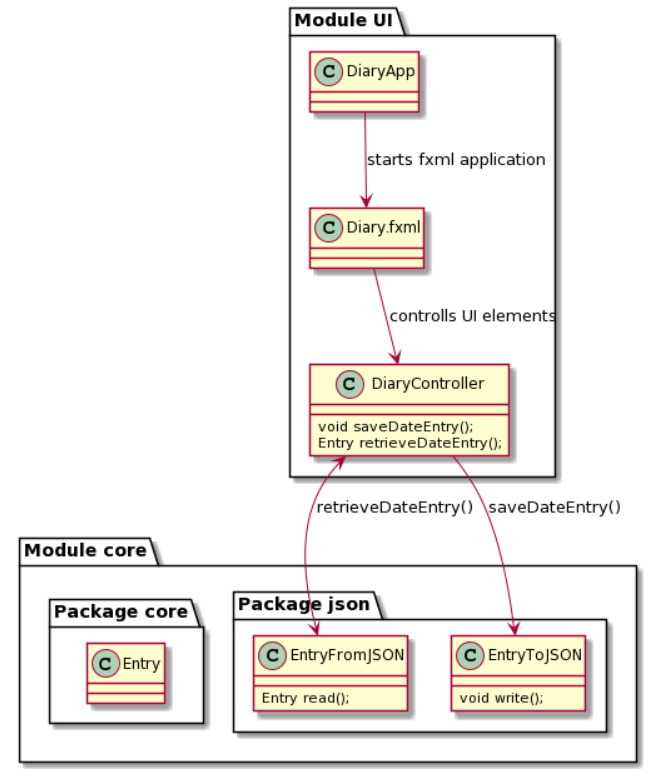
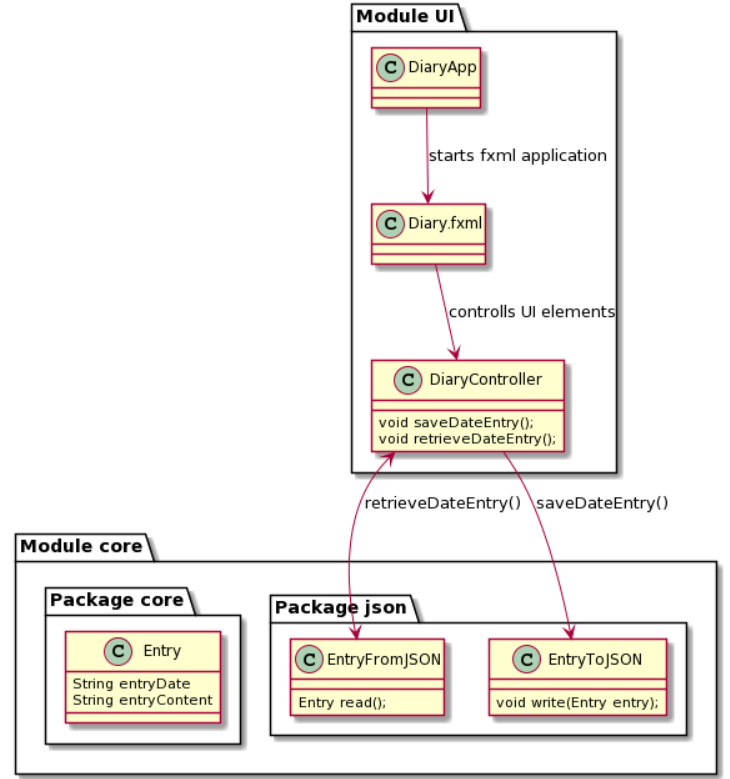
Fixed Architecture.png and added Work Habits

Changed region(s): [[0.0, 0.0, 1.0, 1.0]]

diff --git a/docs/release2/README.md b/docs/release2/README.md
@@ -2,3 +2,9 @@
 In this release we have updated the sceleton we created in release 1 to be a modular application, dividing it into the Core and the UI modules. We have also moved the project below the root gitlab folder to make it more tidy. We have written av few more tests, scaled back on functionality it turned out we didn't need (such as the application beeing able to write to several different diaries) and overall made several small fixes. In addition, we wrote this PlantUML diagram, to clealy illustrate how the application functions:
 
 ![Architecture.png](Architecture.png)
+
+ <br/>
+ <br/>
+
+# Work habits
+Throughout working on the project we have had biweekly meetings where we have identified and assigned issues, in addition to helping eachother with the troubles of git and maven. Off meetings we engage alot in pair programming through screensharing over discord, and when we don't, usually for some minor bugfix, we quickly ask eachother for help when stuck. This keeps us as efficient as we need to be, without spending more time on the project than needed.
